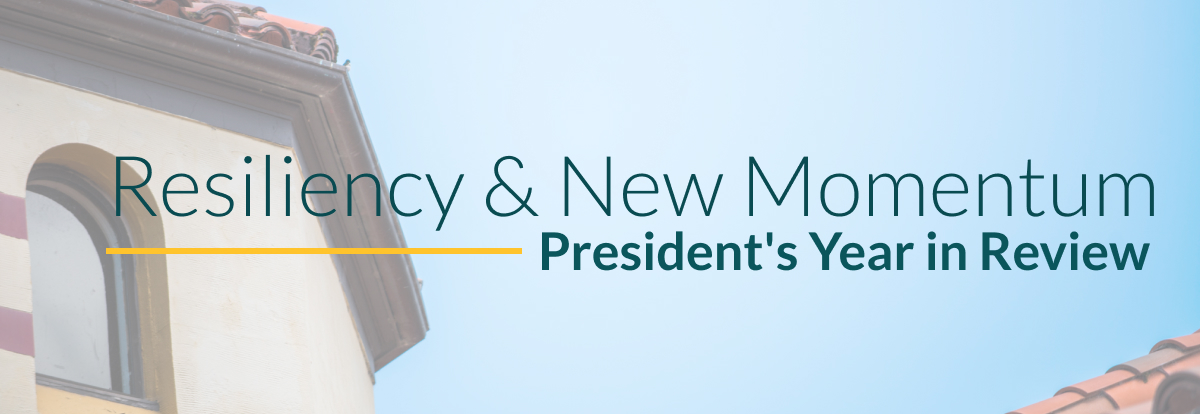
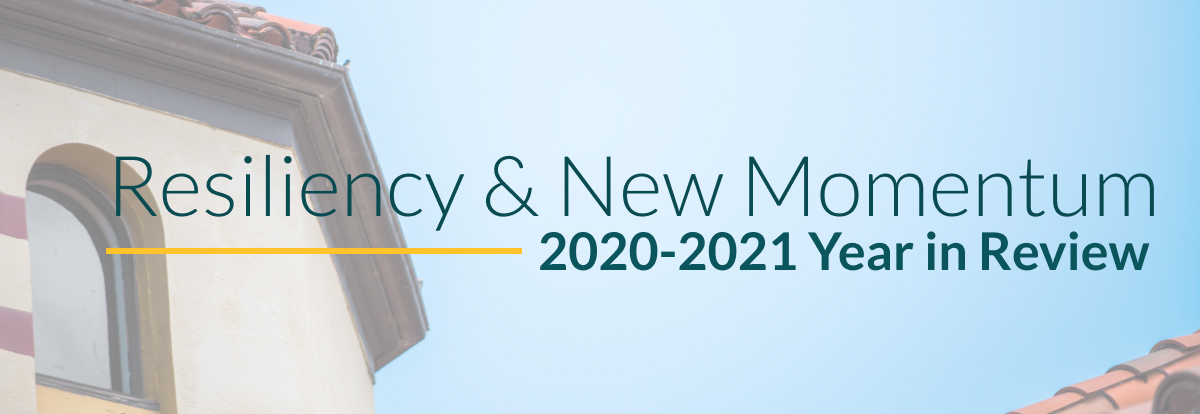
Second draft

Changed region(s): [[0.4317, 0.5507, 0.8017, 0.6667], [0.8325, 0.5797, 0.9558, 0.6377]]

diff --git a/president/review/2021/index.html b/president/review/2021/index.html
@@ -59,7 +59,7 @@
             <td
                style="vertical-align:top;width:600px;"
             >
-          <![endif]--><div class="mj-column-per-100 outlook-group-fix" style="font-size:13px;text-align:left;direction:ltr;display:inline-block;vertical-align:top;width:100%;"><table border="0" cellpadding="0" cellspacing="0" role="presentation" style="vertical-align:top;" width="100%"><tr><td align="center" style="font-size:0px;padding:0 0 16px 0;word-break:break-word;"><table align="center" border="0" cellpadding="0" cellspacing="0" role="presentation" style="border-collapse:collapse;border-spacing:0px;"><tbody><tr><td style="width:600px;"><img alt="Resiliency & New Momentum, Presidetn's Year in Review" height="auto" src="https://mailings.humboldt.edu/president/review/2021/hero.jpg" style="border:0;display:block;outline:none;text-decoration:none;width:100%;" width="600"></td></tr></tbody></table></td></tr><tr><td align="left" style="font-size:0px;padding:10px 25px;word-break:break-word;"><div style="font-family:Lato, Arial, sans-serif;font-size:16px;line-height:20px;text-align:left;color:#444;">HSU Community and Friends,</div></td></tr><tr><td align="left" style="font-size:0px;padding:10px 25px;word-break:break-word;"><div style="font-family:Lato, Arial, sans-serif;font-size:16px;line-height:20px;text-align:left;color:#444;">We’ve appreciated the opportunity to re-connect and to welcome new students and colleagues this semester.</div></td></tr><tr><td align="left" style="font-size:0px;padding:10px 25px;word-break:break-word;"><div style="font-family:Lato, Arial, sans-serif;font-size:16px;line-height:20px;text-align:left;color:#444;">This is also a good time to look back at the previous year. There were many achievements to celebrate, including our hard work on realizing our polytechnic vision, and our shared effort to respond to the challenges of the pandemic. You’re invited to find out more, and to learn about some priorities for the upcoming year, in the <a href="https://president.humboldt.edu/year-in-review-2020-21" class="dark" style="color: #5C8021;">President’s Year in Review</a>.</div></td></tr><tr><td align="left" style="font-size:0px;padding:10px 25px;word-break:break-word;"><div style="font-family:Lato, Arial, sans-serif;font-size:16px;line-height:20px;text-align:left;color:#444;">Even as we face challenges and the unexpected, the campus community maintains a deep commitment to students. Our continued focus is providing them a positive, meaningful educational experience.</div></td></tr><tr><td align="center" vertical-align="middle" style="font-size:0px;padding:40px 0;word-break:break-word;"><table align="center" border="0" cellpadding="0" cellspacing="0" role="presentation" style="border-collapse:separate;line-height:100%;"><tr><td align="center" bgcolor="#5C8021" role="presentation" style="border:none;border-radius:3px;color:#ffffff;cursor:auto;padding:10px 25px;" valign="middle"><a href="https://president.humboldt.edu/year-in-review-2020-21" style="background: #5C8021; color: #ffffff; font-family: Arial; font-size: 16px; font-weight: normal; line-height: 120%; Margin: 0; text-decoration: none; text-transform: none;" target="_blank">Read the President’s Year in Review</a></td></tr></table></td></tr></table></div><!--[if mso | IE]>
+          <![endif]--><div class="mj-column-per-100 outlook-group-fix" style="font-size:13px;text-align:left;direction:ltr;display:inline-block;vertical-align:top;width:100%;"><table border="0" cellpadding="0" cellspacing="0" role="presentation" style="vertical-align:top;" width="100%"><tr><td align="center" style="font-size:0px;padding:0 0 16px 0;word-break:break-word;"><table align="center" border="0" cellpadding="0" cellspacing="0" role="presentation" style="border-collapse:collapse;border-spacing:0px;"><tbody><tr><td style="width:600px;"><img alt="Resiliency & New Momentum, 2020-2021 Year in Review" height="auto" src="https://mailings.humboldt.edu/president/review/2021/hero.jpg" style="border:0;display:block;outline:none;text-decoration:none;width:100%;" width="600"></td></tr></tbody></table></td></tr><tr><td align="left" style="font-size:0px;padding:10px 25px;word-break:break-word;"><div style="font-family:Lato, Arial, sans-serif;font-size:16px;line-height:20px;text-align:left;color:#444;">HSU Community and Friends,</div></td></tr><tr><td align="left" style="font-size:0px;padding:10px 25px;word-break:break-word;"><div style="font-family:Lato, Arial, sans-serif;font-size:16px;line-height:20px;text-align:left;color:#444;">We’ve appreciated the opportunity to re-connect and to welcome new students and colleagues this semester.</div></td></tr><tr><td align="left" style="font-size:0px;padding:10px 25px;word-break:break-word;"><div style="font-family:Lato, Arial, sans-serif;font-size:16px;line-height:20px;text-align:left;color:#444;">This is also a good time to look back at the previous year. There were many achievements to celebrate, including our progress toward realizing our polytechnic vision, and our shared effort to respond to the challenges of the pandemic. You’re invited to find out more in the <a href="https://president.humboldt.edu/year-in-review-2020-21" class="dark" style="color: #5C8021;">President’s Year in Review</a>.</div></td></tr><tr><td align="left" style="font-size:0px;padding:10px 25px;word-break:break-word;"><div style="font-family:Lato, Arial, sans-serif;font-size:16px;line-height:20px;text-align:left;color:#444;">Thank you for your resilience over the last year and your deep commitment to providing a positive, meaningful educational experience for all our students.</div></td></tr><tr><td align="center" vertical-align="middle" style="font-size:0px;padding:40px 0;word-break:break-word;"><table align="center" border="0" cellpadding="0" cellspacing="0" role="presentation" style="border-collapse:separate;line-height:100%;"><tr><td align="center" bgcolor="#5C8021" role="presentation" style="border:none;border-radius:3px;color:#ffffff;cursor:auto;padding:10px 25px;" valign="middle"><a href="https://president.humboldt.edu/year-in-review-2020-21" style="background: #5C8021; color: #ffffff; font-family: Arial; font-size: 16px; font-weight: normal; line-height: 120%; Margin: 0; text-decoration: none; text-transform: none;" target="_blank">President’s Year in Review</a></td></tr></table></td></tr></table></div><!--[if mso | IE]>
             </td>
           
         </tr>
